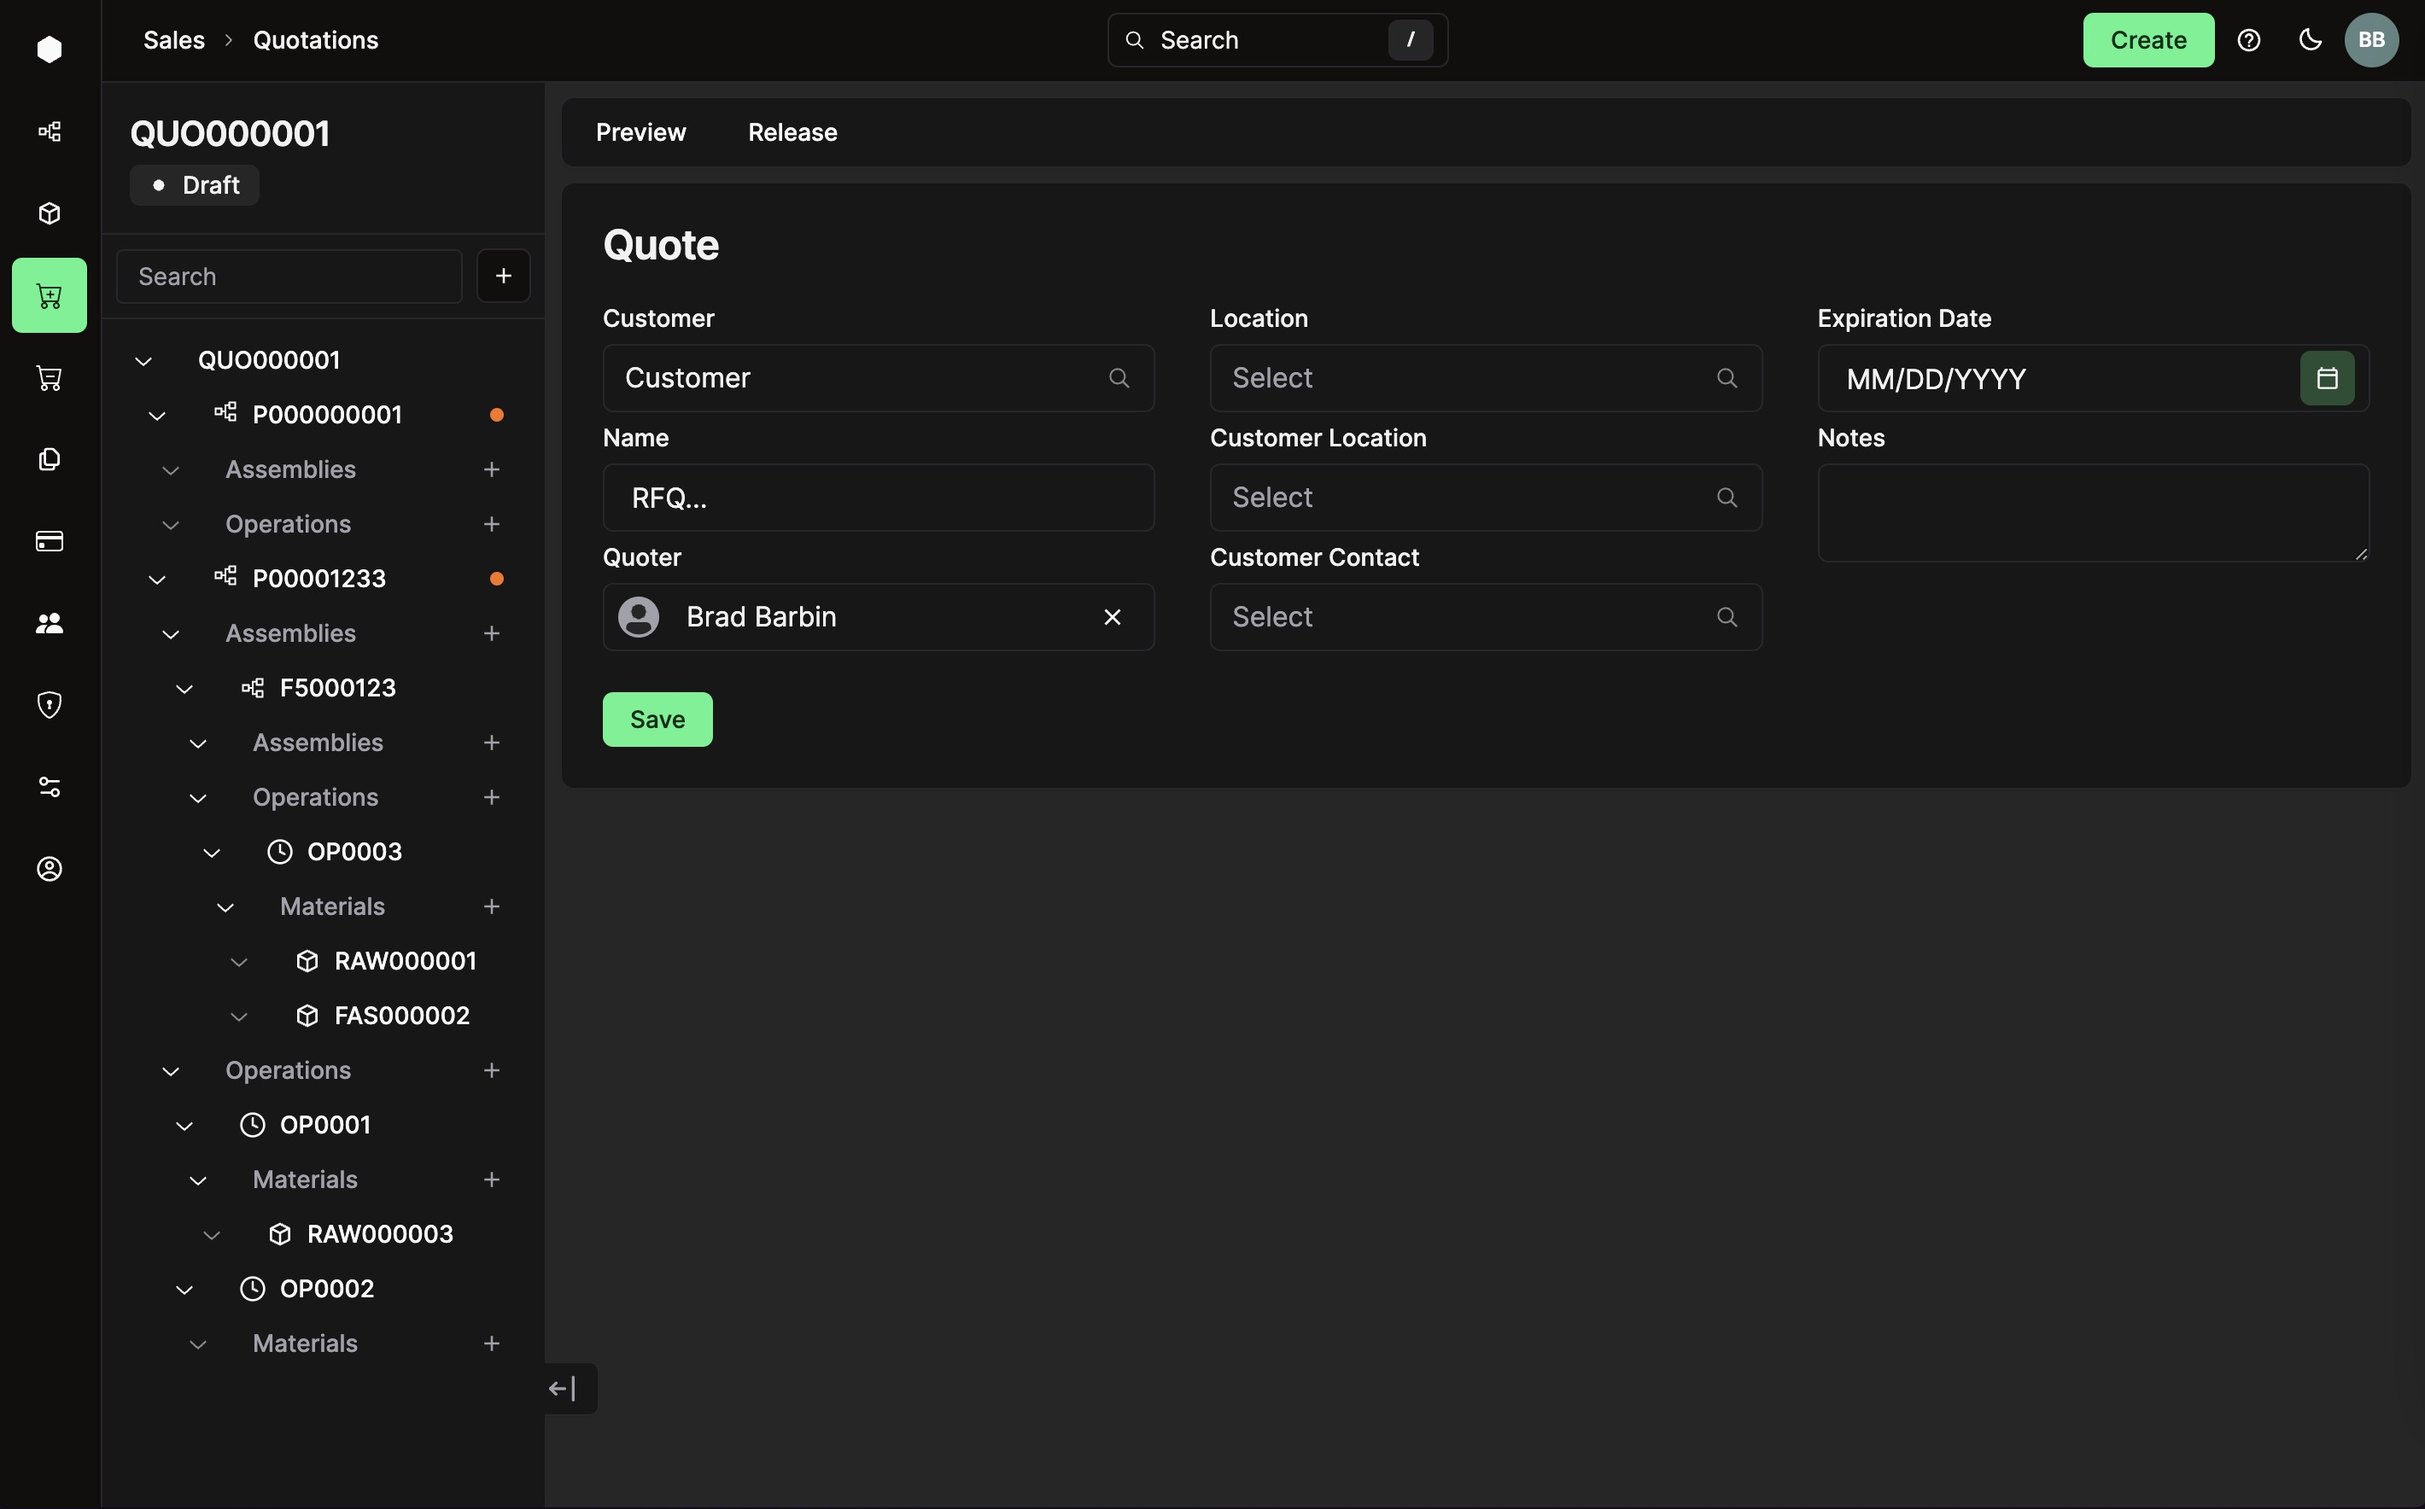
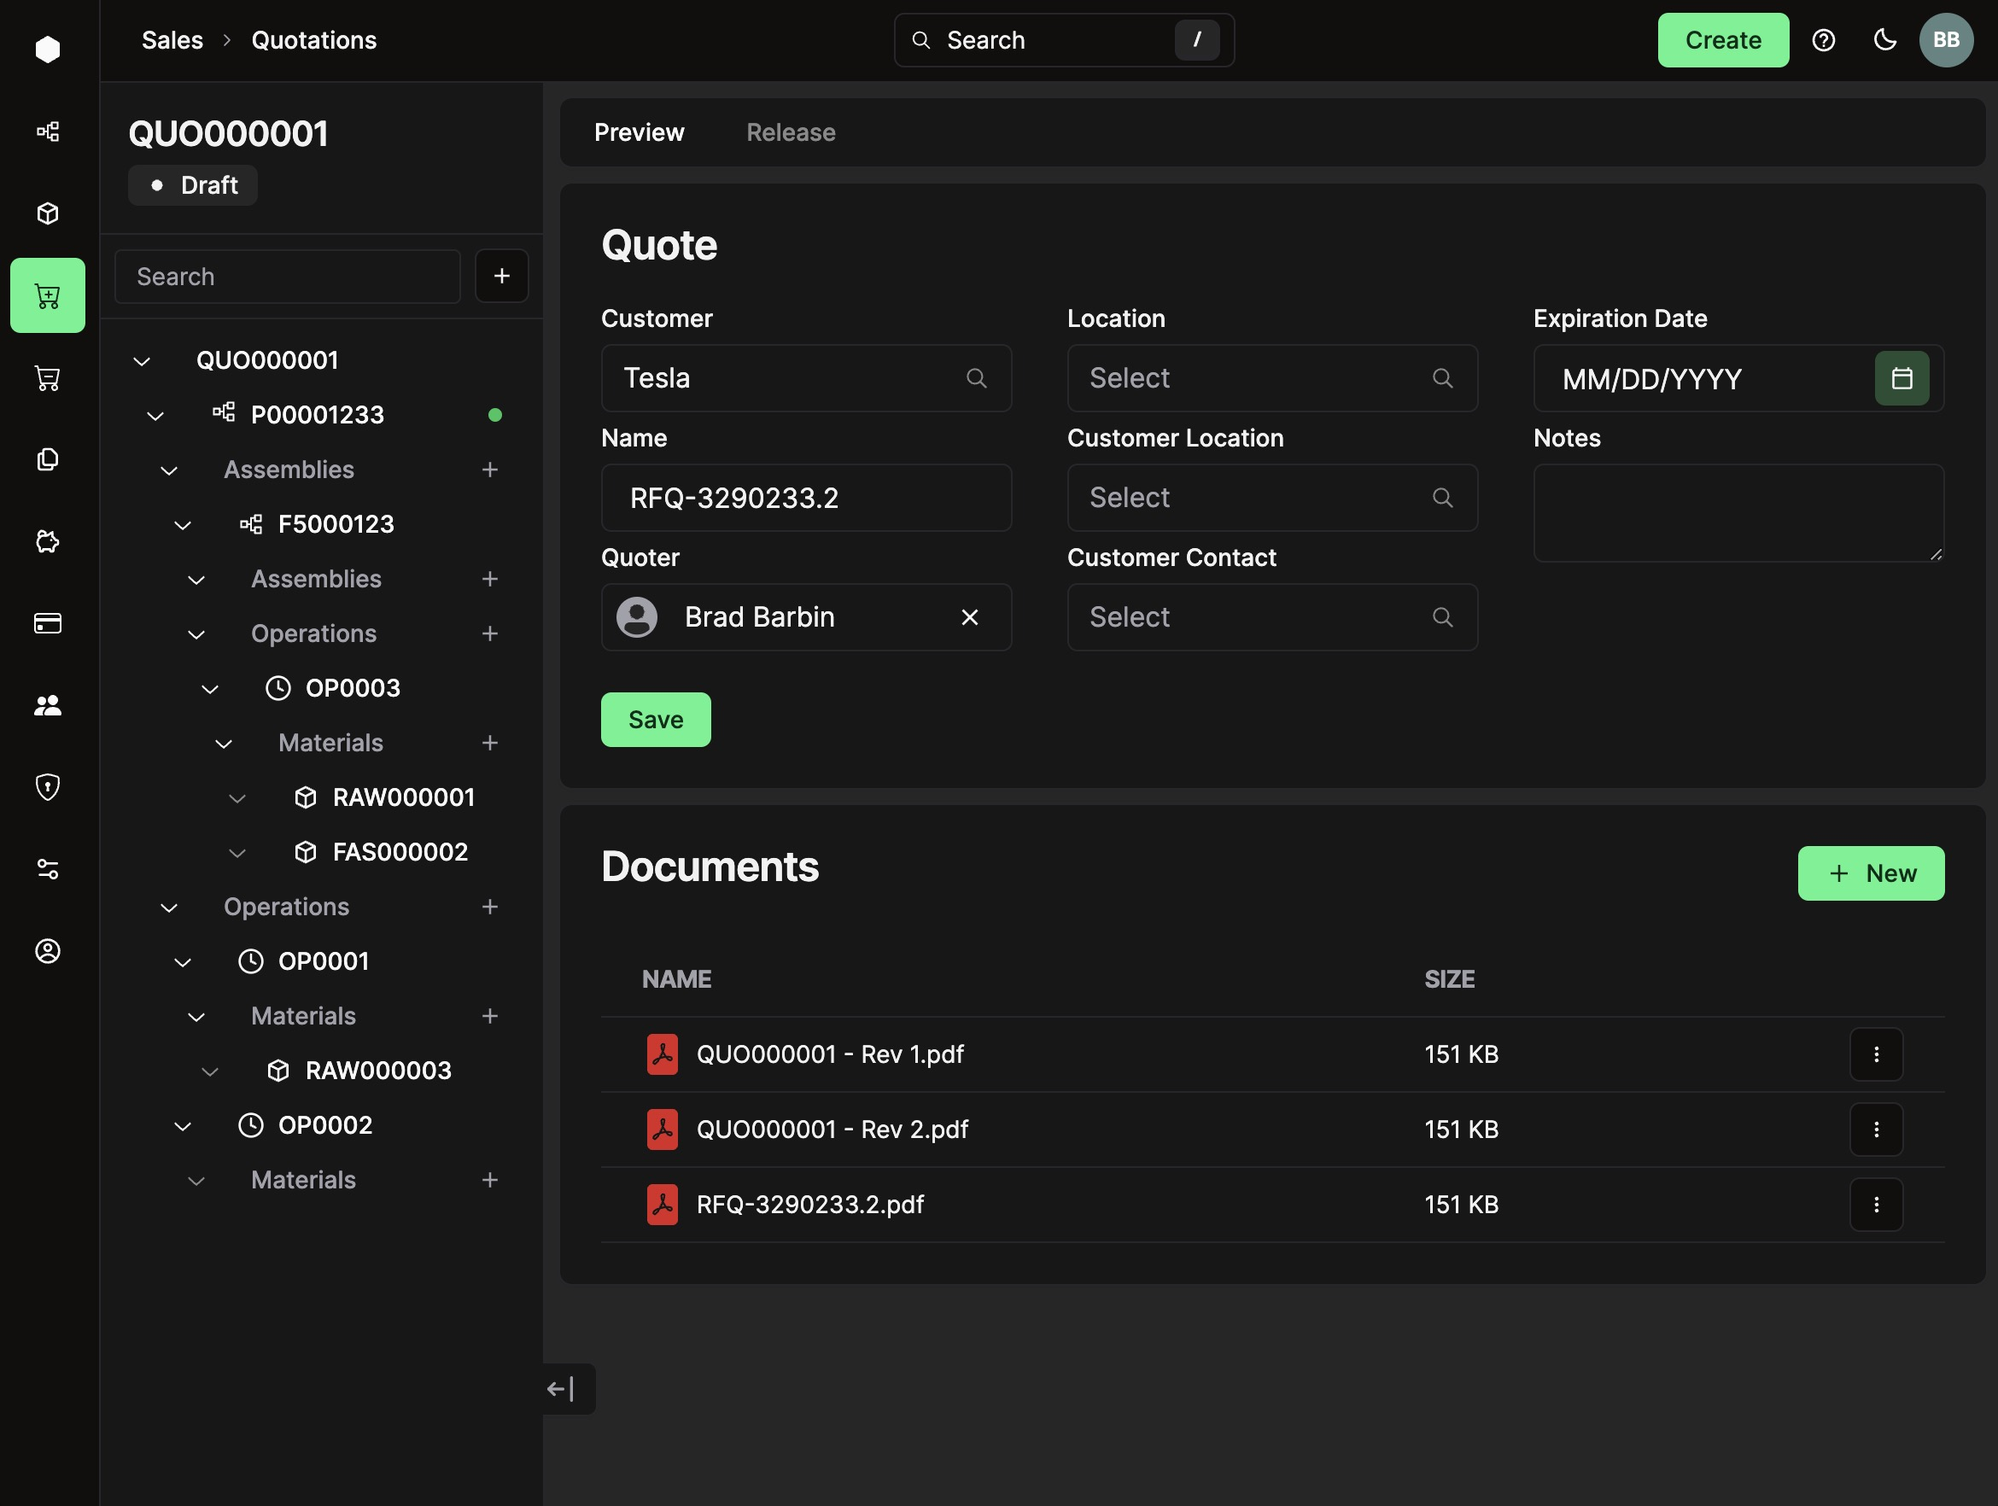
docs: update the image

diff --git a/apps/carbon/app/routes/x+/quote+/$id.tsx b/apps/carbon/app/routes/x+/quote+/$id.tsx
@@ -133,7 +133,7 @@ export default function QuotationRoute() {
               Preview
             </a>
           </MenubarItem>
-          <MenubarItem>Release</MenubarItem>
+          <MenubarItem isDisabled>Release</MenubarItem>
         </Menubar>
 
         <Outlet />
@@ -173,29 +173,11 @@ const data: BillOfMaterialNode[] = [
     children: [
       {
         id: "cnc03dgmu0l0h0gm0330",
-        label: "P000000001",
-        type: "line",
-        children: [
-          {
-            id: "cnc03dgmu0l0h0gm0330",
-            // parentId: "cn9v3tldq0l1lvlkrqmg",
-            label: "Assemblies",
-            type: "assemblies",
-          },
-          {
-            id: "cnc03dgmu0l0h0gm0330",
-            label: "Operations",
-            type: "operations",
-          },
-        ],
-      },
-      {
-        id: "2",
         label: "P00001233",
         type: "line",
         children: [
           {
-            id: "3",
+            id: "cnc03dgmu0l0h0gm0330",
             label: "Assemblies",
             type: "assemblies",
             children: [
@@ -246,7 +228,7 @@ const data: BillOfMaterialNode[] = [
             ],
           },
           {
-            id: "11",
+            id: "cnc03dgmu0l0h0gm0330",
             label: "Operations",
             type: "operations",
             children: [
@@ -340,7 +322,7 @@ const BillOfMaterialItem = ({
               <AiOutlinePartition className="w-4 h-4 mr-2" />
               {label}
             </span>
-            <span className="bg-orange-500 rounded-full h-2 w-2 inline-block ml-2" />
+            <span className="bg-green-500 rounded-full h-2 w-2 inline-block ml-2" />
           </Link>
         </Button>
       );

diff --git a/apps/carbon/app/routes/x+/quote+/$id.details.tsx b/apps/carbon/app/routes/x+/quote+/$id.details.tsx
@@ -3,8 +3,9 @@ import { redirect } from "@remix-run/node";
 import { useParams } from "@remix-run/react";
 import { validationError } from "remix-validated-form";
 import { useRouteData } from "~/hooks";
-import type { Quotation } from "~/modules/sales";
+import type { Quotation, QuotationAttachment } from "~/modules/sales";
 import {
+  QuotationDocuments,
   QuotationForm,
   quotationValidator,
   upsertQuote,
@@ -60,7 +61,10 @@ export async function action({ request, params }: ActionFunctionArgs) {
 export default function QuotationBasicRoute() {
   const { id } = useParams();
   if (!id) throw new Error("Could not find id");
-  const quoteData = useRouteData<{ quotation: Quotation }>(path.to.quote(id));
+  const quoteData = useRouteData<{
+    quotation: Quotation;
+    internalDocuments: QuotationAttachment[];
+  }>(path.to.quote(id));
   if (!quoteData) throw new Error("Could not find quote data");
 
   const initialValues = {
@@ -78,5 +82,14 @@ export default function QuotationBasicRoute() {
     notes: quoteData?.quotation?.notes ?? "",
   };
 
-  return <QuotationForm initialValues={initialValues} />;
+  return (
+    <>
+      <QuotationForm initialValues={initialValues} />
+      <QuotationDocuments
+        id={id}
+        attachments={quoteData.internalDocuments}
+        isExternal={false}
+      />
+    </>
+  );
 }

diff --git a/packages/database/src/seed/employee-types.ts b/packages/database/src/seed/employee-types.ts
@@ -27,12 +27,12 @@ export const employeeTypePermissionsDefinitions: Record<
   >
 > = {
   Admin: {
-    // Accounting: {
-    //   create: true,
-    //   update: true,
-    //   delete: true,
-    //   view: true,
-    // },
+    Accounting: {
+      create: true,
+      update: true,
+      delete: true,
+      view: true,
+    },
     Invoicing: {
       create: true,
       update: true,
@@ -113,12 +113,12 @@ export const employeeTypePermissionsDefinitions: Record<
     },
   },
   "Project Manager": {
-    // Accounting: {
-    //   create: false,
-    //   update: false,
-    //   delete: false,
-    //   view: false,
-    // },
+    Accounting: {
+      create: false,
+      update: false,
+      delete: false,
+      view: false,
+    },
     Invoicing: {
       create: false,
       update: false,
@@ -199,12 +199,12 @@ export const employeeTypePermissionsDefinitions: Record<
     },
   },
   Sales: {
-    // Accounting: {
-    //   create: false,
-    //   update: false,
-    //   delete: false,
-    //   view: false,
-    // },
+    Accounting: {
+      create: false,
+      update: false,
+      delete: false,
+      view: false,
+    },
     Invoicing: {
       create: false,
       update: false,

diff --git a/apps/carbon/app/modules/sales/ui/Quotation/QuotationDocuments/QuotationDocuments.tsx b/apps/carbon/app/modules/sales/ui/Quotation/QuotationDocuments/QuotationDocuments.tsx
@@ -48,12 +48,10 @@ const QuotationDocuments = ({
       <Card>
         <HStack className="justify-between items-start">
           <CardHeader>
-            <CardTitle>
-              {isExternal ? "External" : "Internal"} Attachments
-            </CardTitle>
+            <CardTitle>Documents</CardTitle>
           </CardHeader>
           <CardAction>
-            <QuotationDocumentForm isExternal={isExternal} id={id} />
+            <QuotationDocumentForm isExternal={false} id={id} />
           </CardAction>
         </HStack>
         <CardContent>

diff --git a/apps/carbon/app/components/CreateableCombobox.tsx b/apps/carbon/app/components/CreateableCombobox.tsx
@@ -107,7 +107,7 @@ const CreatableCombobox = forwardRef<HTMLButtonElement, CreatableComboboxProps>(
                     onSelect={() => {
                       props.onCreateOption?.(search);
                     }}
-                    value={search}
+                    value={search.trim()}
                   >
                     <span>Create</span>
                     <span className="ml-1 font-bold">{search}</span>

diff --git a/www/components/Home/components/features.tsx b/www/components/Home/components/features.tsx
@@ -4,7 +4,7 @@ import { GiSpeedometer } from "react-icons/gi";
 import { GoSync } from "react-icons/go";
 import { HiCode, HiFingerPrint } from "react-icons/hi";
 import { TbBuildingFactory2 } from "react-icons/tb";
-import { useGlowPointer } from "../hooks/useGlowPointer";
+import { useGlowPointer } from "../../../hooks/useGlowPointer";
 
 declare global {
   interface Window {

diff --git a/www/components/Home/Home.tsx b/www/components/Home/Home.tsx
@@ -3,8 +3,7 @@
 import { clamp, motion, useMotionValueEvent, useScroll } from "framer-motion";
 import Head from "next/head";
 import React, { useState } from "react";
-import Features from "../features";
-import MacbookScroll from "../macbook";
+import { Features, MacbookScroll } from "./components";
 
 function Gradient() {
   const { scrollYProgress } = useScroll();

diff --git a/www/components/Home/components/macbook.tsx b/www/components/Home/components/macbook.tsx
@@ -23,7 +23,7 @@ import type { MotionValue } from "framer-motion";
 import { motion, useScroll, useTransform } from "framer-motion";
 import Image from "next/image";
 import React, { useEffect, useRef, useState } from "react";
-import { cn } from "../utils/cn";
+import { cn } from "../../../utils/cn";
 
 const MacbookScroll = ({
   showGradient,

diff --git a/apps/carbon/app/utils/path.ts b/apps/carbon/app/utils/path.ts
@@ -479,3 +479,7 @@ export const onboardingSequence = [
 export const getStoragePath = (bucket: string, path: string) => {
   return `${SUPABASE_API_URL}/storage/v1/object/public/${bucket}/${path}`;
 };
+
+export const requestReferrer = (request: Request) => {
+  return request.headers.get("referer");
+};

diff --git a/www/components/Home/components/index.ts b/www/components/Home/components/index.ts
@@ -1,0 +1,5 @@
+import Features from "./features";
+import MacbookScroll from "./macbook";
+import Sticky from "./sticky";
+
+export { Features, MacbookScroll, Sticky };

diff --git a/packages/database/src/seed/features.ts b/packages/database/src/seed/features.ts
@@ -1,7 +1,7 @@
 import { v4 as uuidv4 } from "uuid";
 
 const possibleFeatures = [
-  // "Accounting",
+  "Accounting",
   "Documents",
   "Inventory",
   "Invoicing",

diff --git a/www/components/Home/index.ts b/www/components/Home/index.ts
@@ -1,0 +1,3 @@
+import Home from "./Home";
+
+export default Home;
